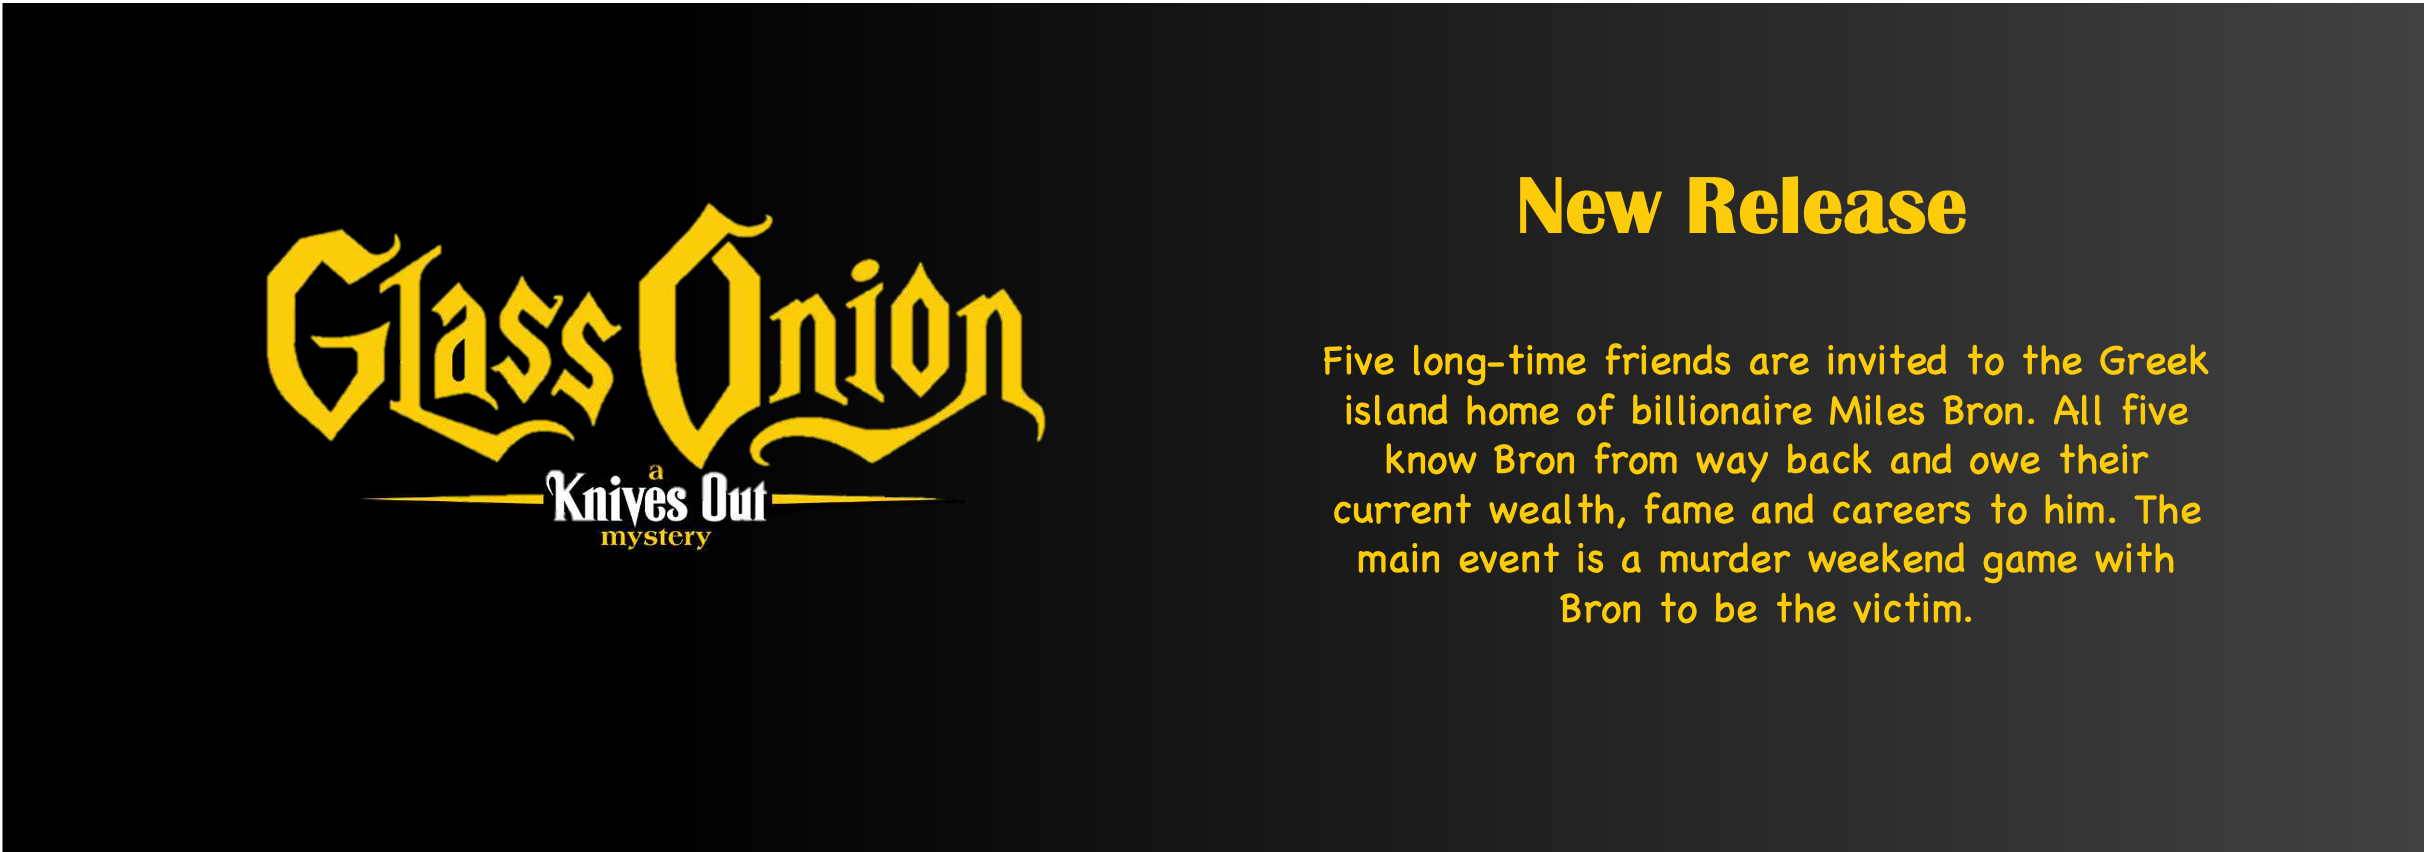
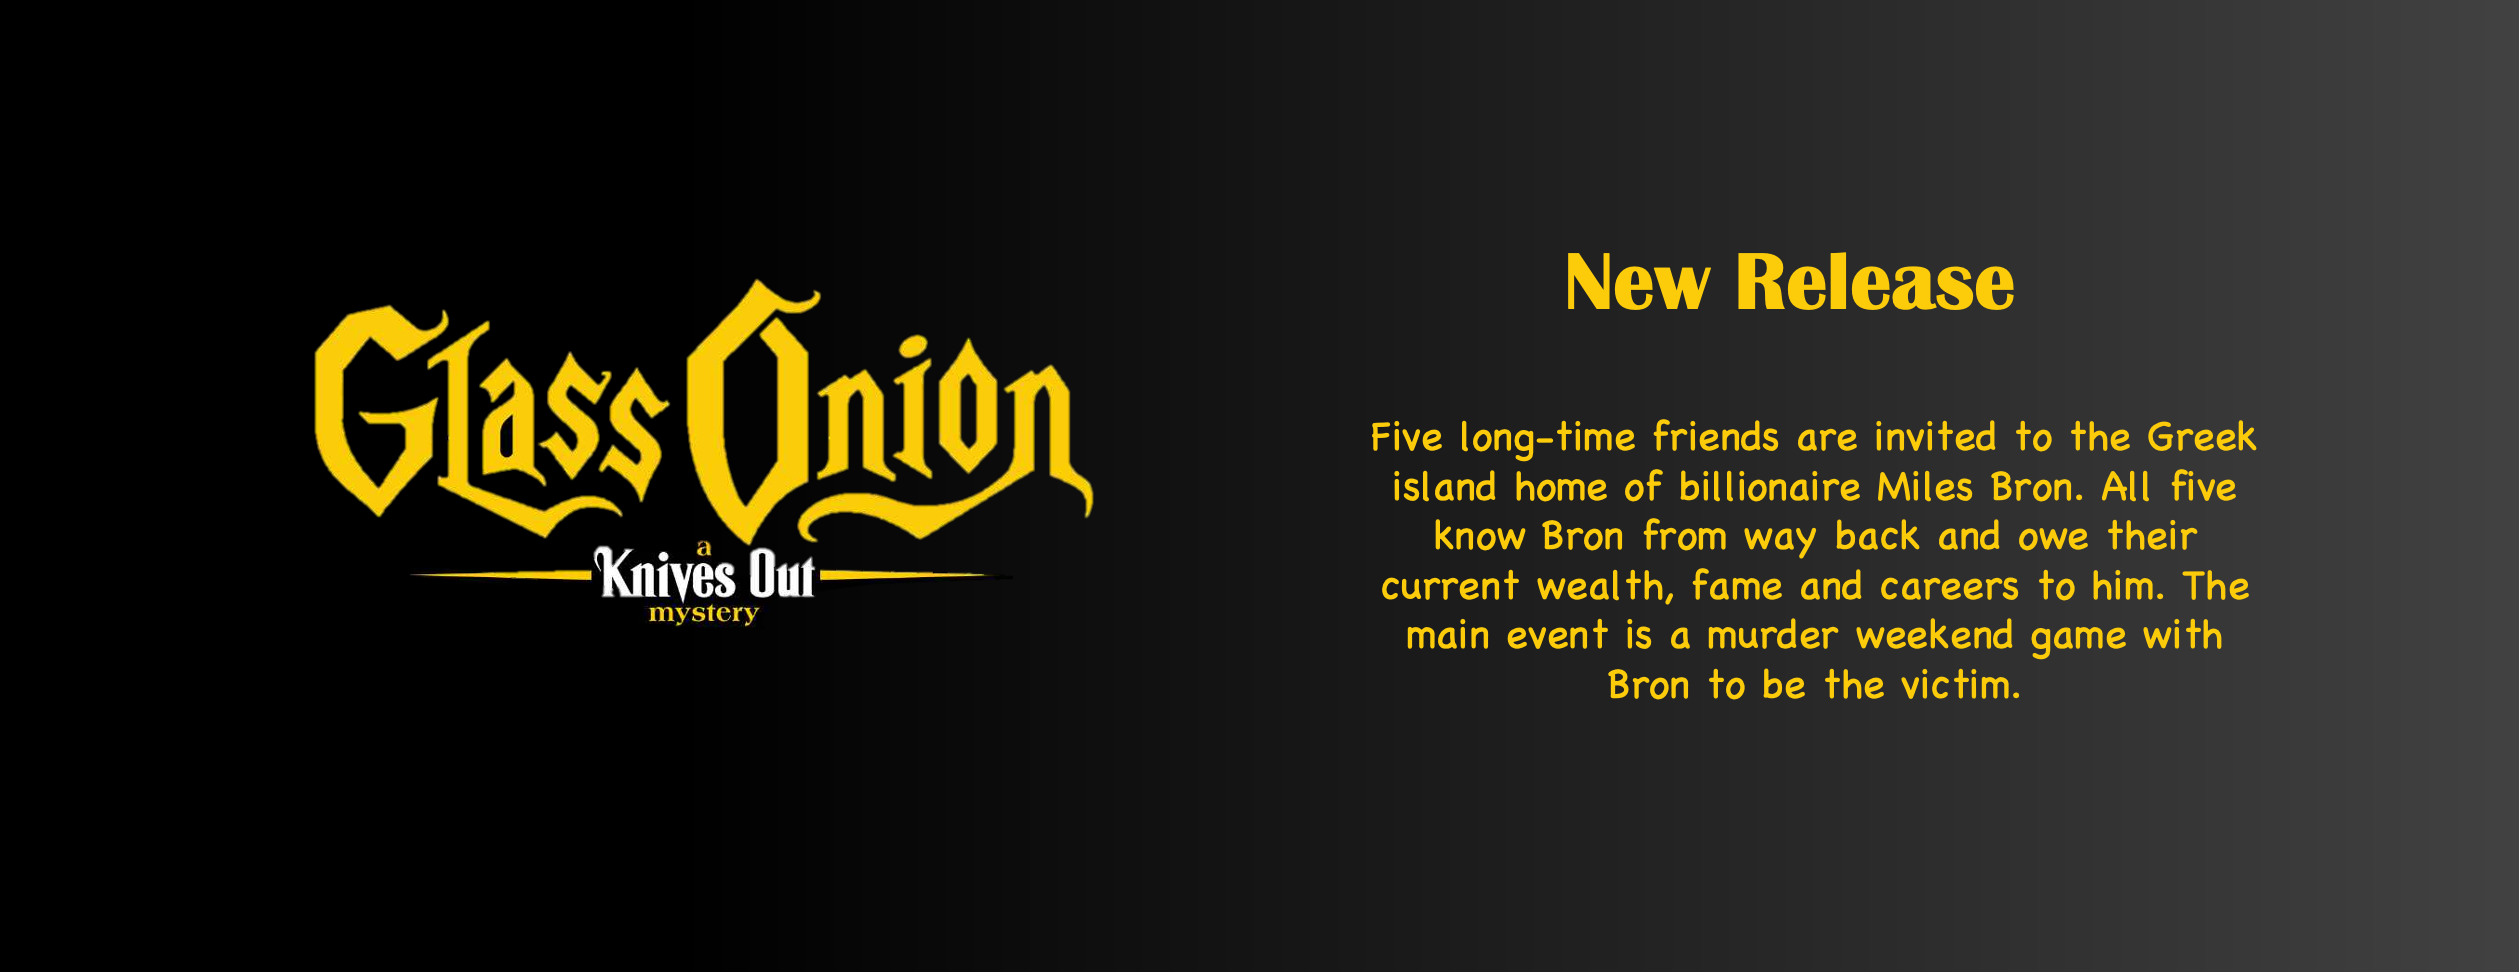
fix herobanner

diff --git a/client/src/components/HeroBanner/HeroBannerStyles.tsx b/client/src/components/HeroBanner/HeroBannerStyles.tsx
@@ -2,7 +2,7 @@ import styled from "styled-components";
 
 const HeroBannerStyles = styled.div`
   width: 100%;
-  height: 400px;
+  height: 420px;
   box-shadow: 1px 1px 3px #373535;
   & h1 {
     width: 40%;
@@ -23,7 +23,7 @@ const HeroBannerStyles = styled.div`
 
   & img {
     width: 100%;
-    height: 400px;
+    height: 100%;
     object-fit: cover;
   }
   @media (max-width: 1025px) {
